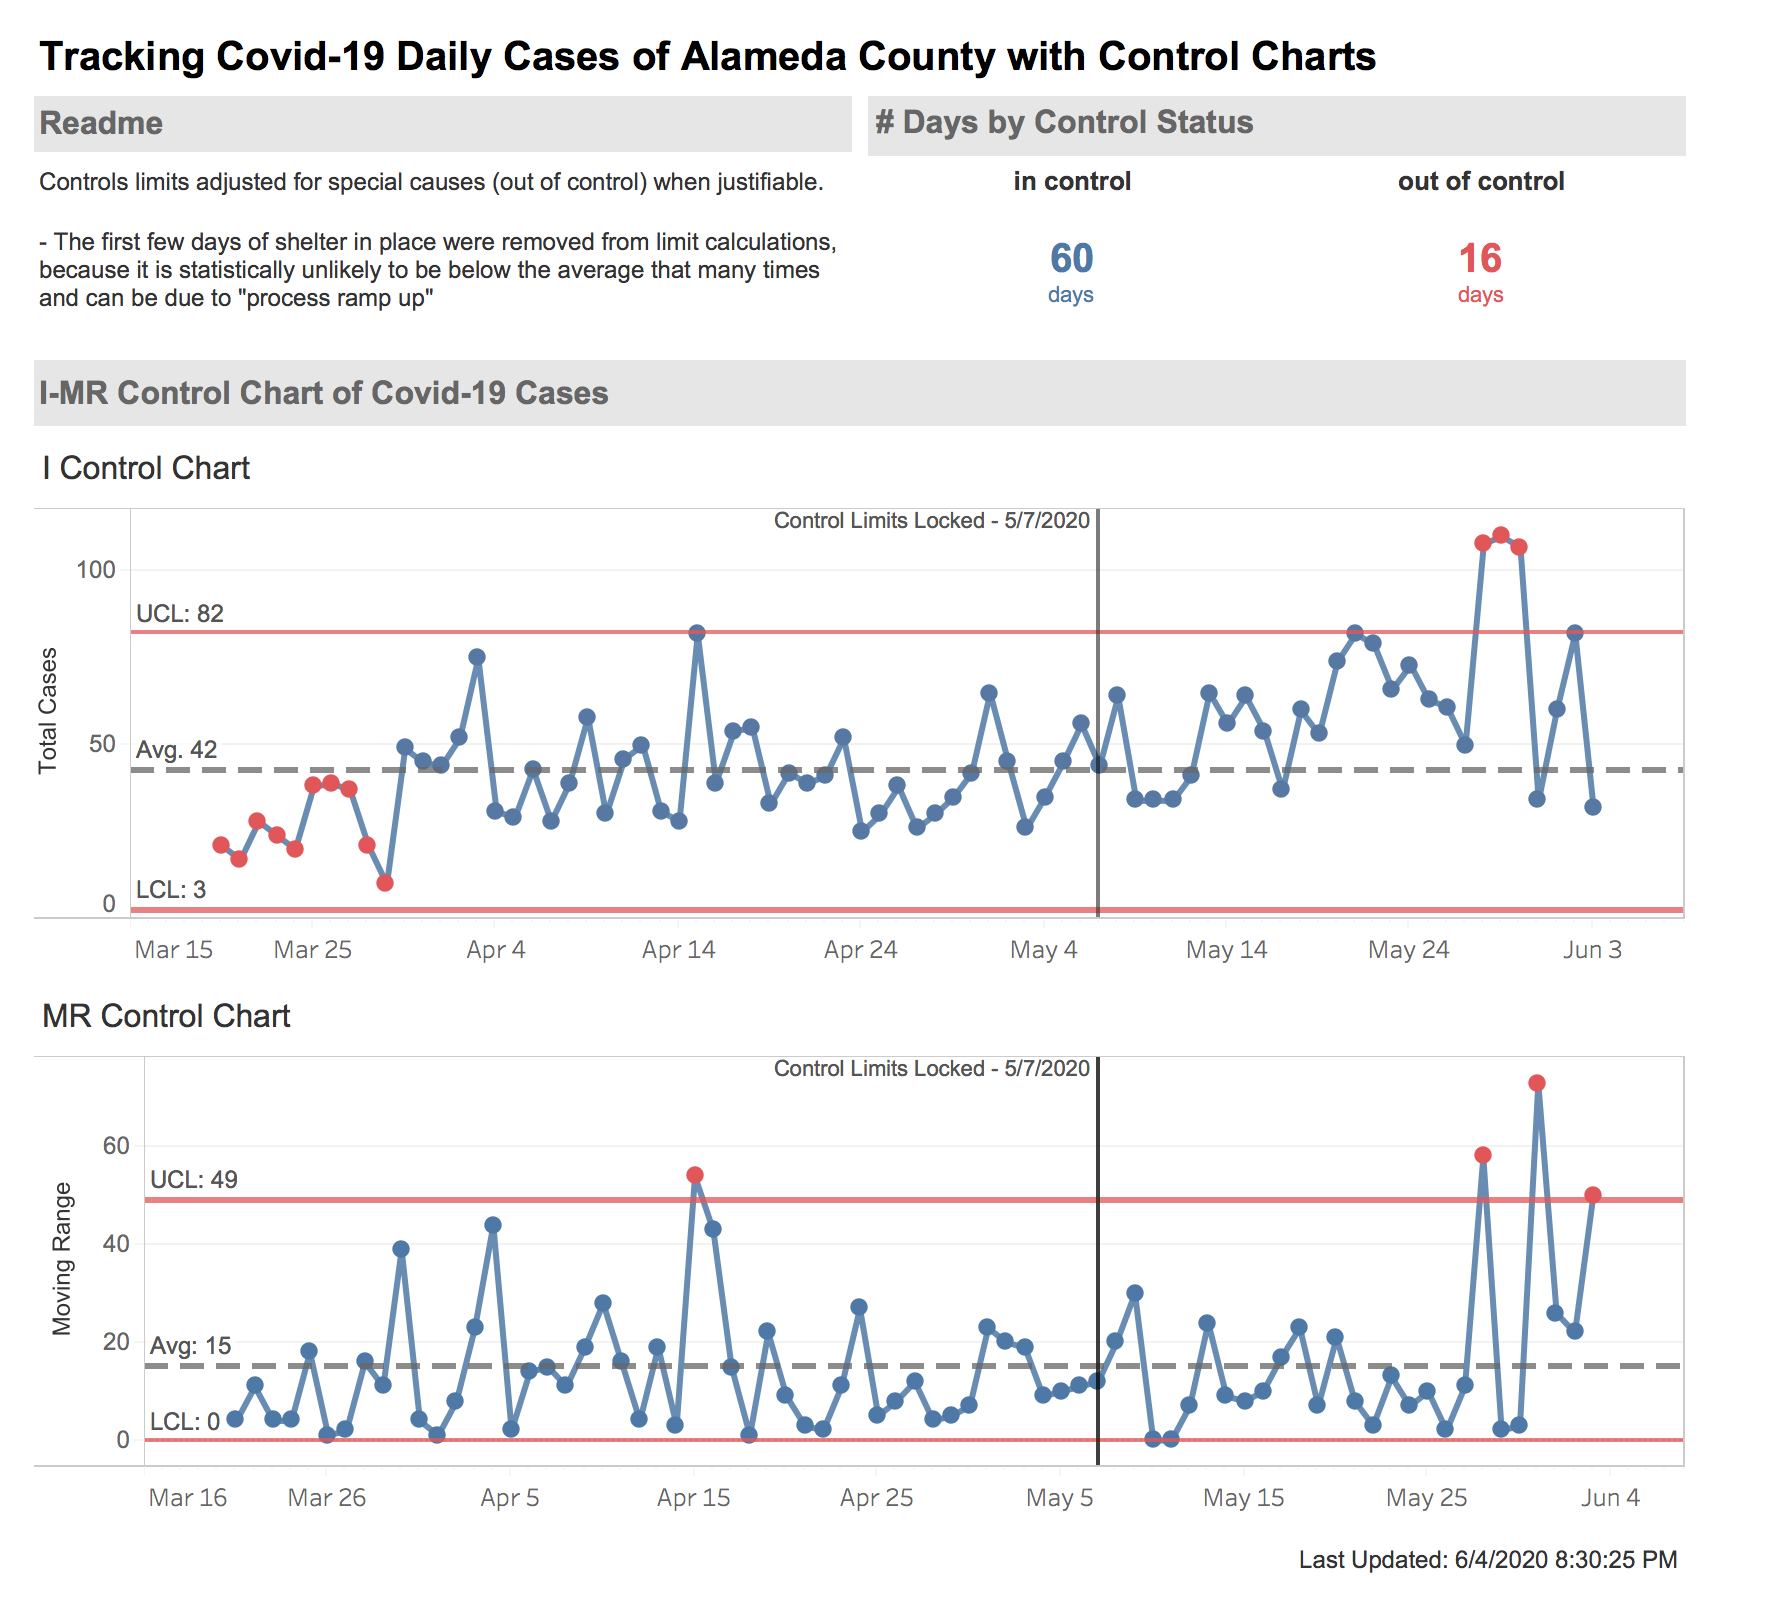
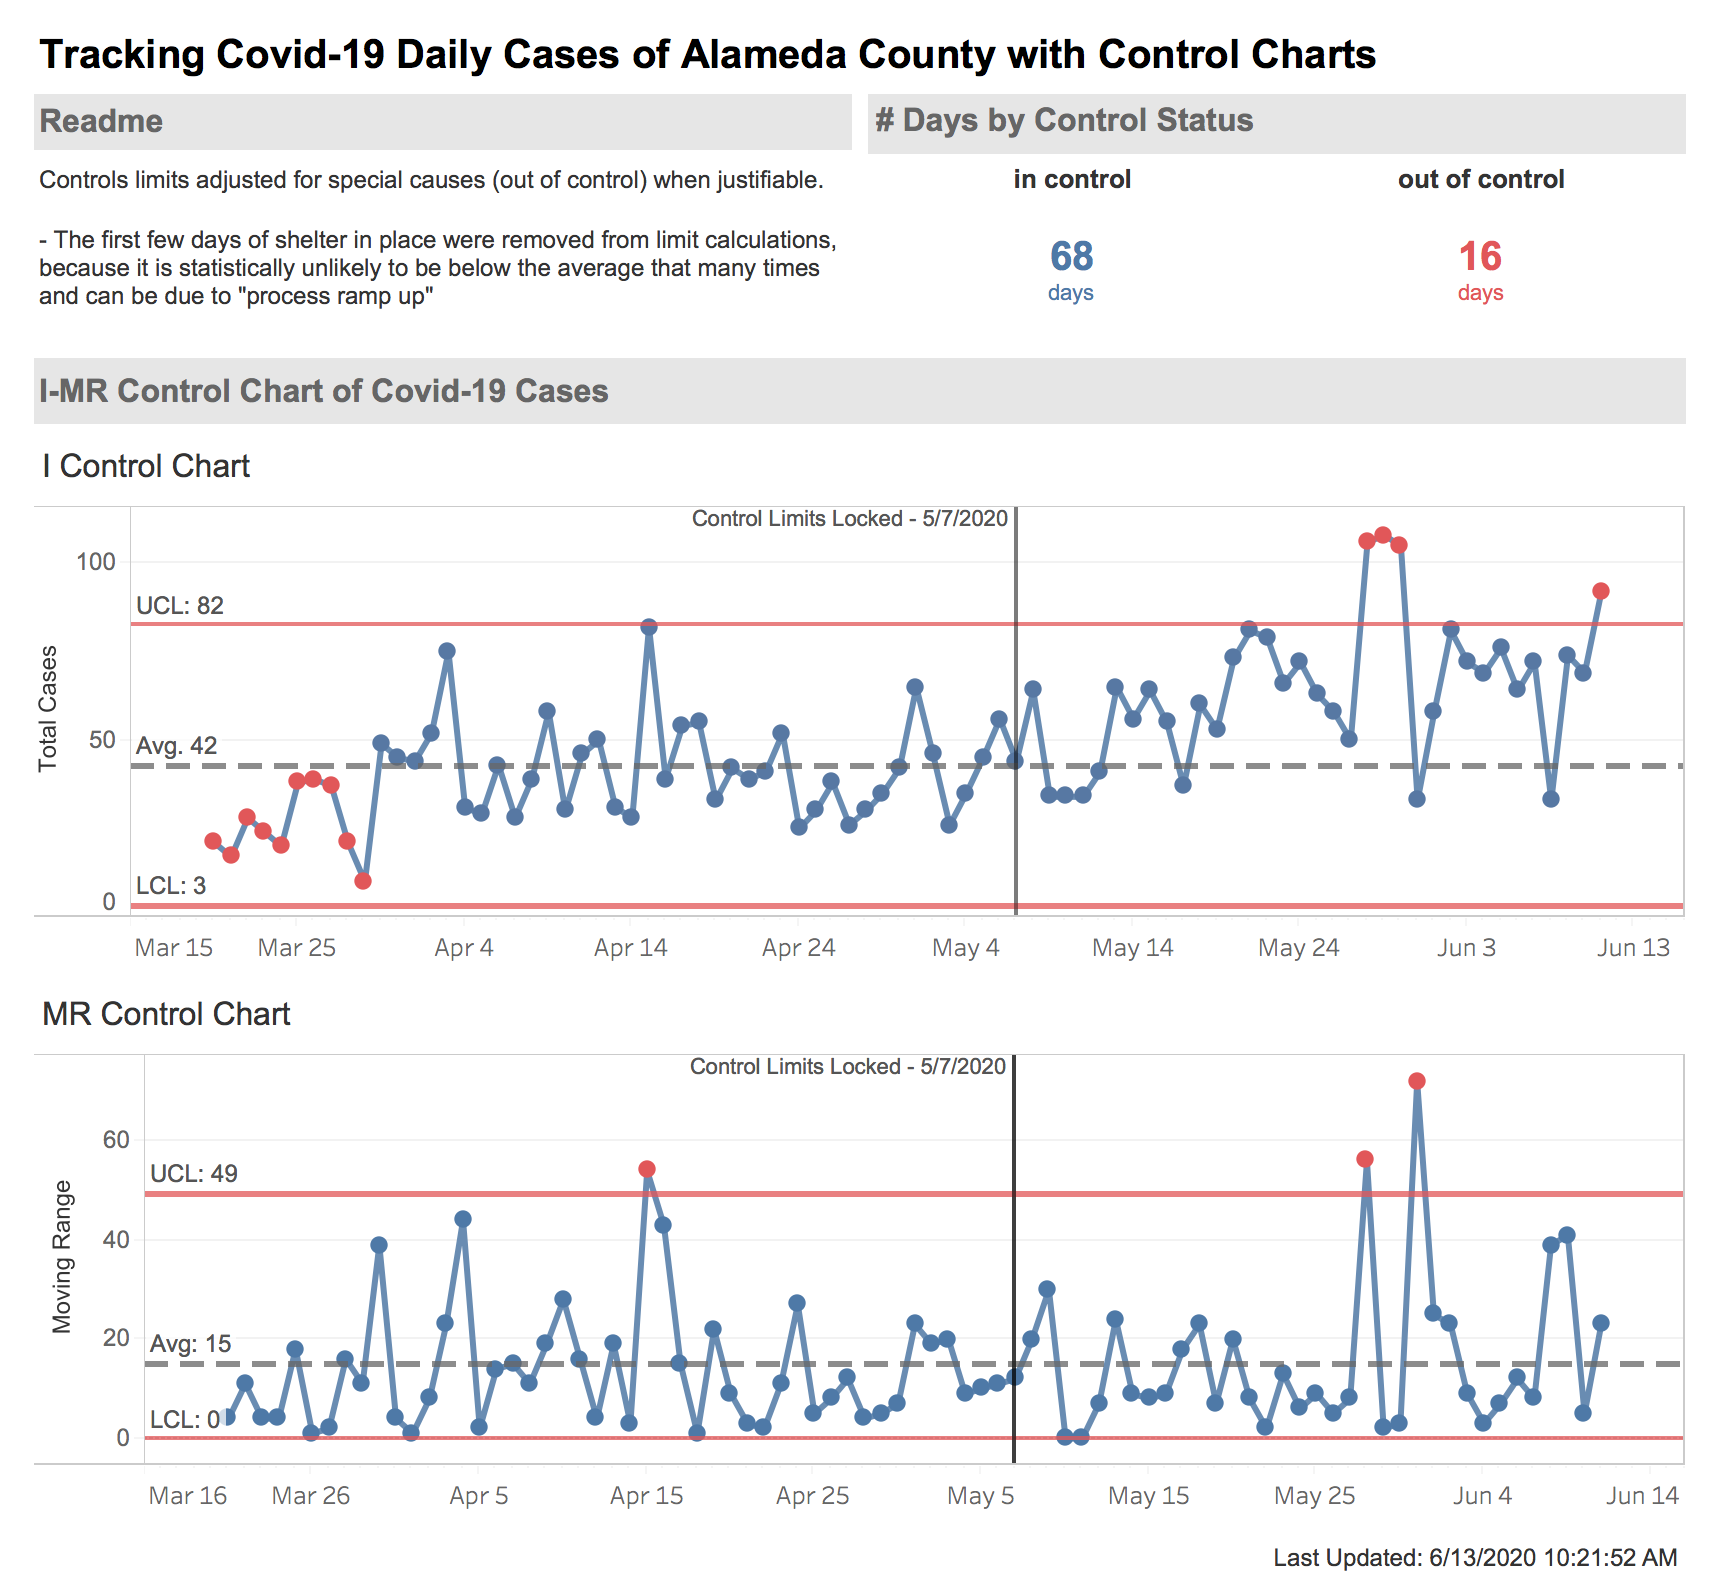
update

diff --git a/README.md b/README.md
@@ -1,13 +1,18 @@
 ## Tracking  # of COVID-19 cases in Alameda County California using Statistical Process Control
 [Link to Tableau Dashboard](https://public.tableau.com/profile/brenton.hsu5940#!/vizhome/AlamedaCountyControlChartCovid-19Cases/Overview?publish=yes)
 
-## 2020-06-04 Status Update
-All the dates after May 18 are showing concerning patterns and spikes in the # of COVID-19 cases each. Specifically, between May 18 and May 30, there were 13 straight days with COVID-19 cases being above the average of 42 cases a day. This is a strong pattern and likely suggests that the expected # of COVID-19 cases each day are increasing. Also, their are 5 straight days with very abnormal spikes in # of COVID-19 cases. May 29 to May 30 has 3 days in a row with the # of cases being above 107, when we should only be expecting a max of 82 cases a day.  Not only are their days with abnormally high # of cases, they are also high swings beings detected in # of cases. For instance, between 6/2 and 6/3 the # of cases dropped from 82 to 32, which is a drop of 50. Based on the control charts, we shouldn't expect the # of cases to swing up and down by more than 49. 
-
-Although determining the cause for the process change in # of COVID-19 cases is difficult, we can speculate that it is likely due to Alameda opening up phase II in shelter in place or the recent mass protests. Nevertheless, the most recent data and control chart provides evidence that Alameda County will see an increase in the # of COVID-19 cases they see each day in the near future.
+## 2020-06-13 Status Update
+At a glance, one can visually see that the majority of days starting in late May are falling above the expected average of 42 cases a day. Also, their is another spike in COVID-19 cases on 6/11. Given the rise in daily # of COVID-19 cases and the consistent spikes, the control chart limits needs to be recalculated to capture an accurate picture of the increase in COVID-19 cases in Alameda County.
 
 Below are the Control Charts that are used to detect significant spikes in # of COVID-19 cases in Alameda County. Any date after 5/6 are not included in calculating the control limits, since they were locked to start detecting any significant spikes in cases. Control limits (UCL, LCL) are the calculated values of the expected range of daily # of cases.
 ![](3_images/dashboard_screenshot.png)
+
+## 2020-06-04 Status Update
+All the dates after May 18 are showing concerning patterns and spikes in the # of COVID-19 cases each. Specifically, between May 18 and May 30, there were 13 straight days with COVID-19 cases being above the average of 42 cases a day. This is a strong pattern and likely suggests that the expected # of COVID-19 cases each day are increasing. Also, their are 5 straight days with very abnormal spikes in # of COVID-19 cases. May 29 to May 30 has 3 days in a row with the # of cases being above 107, when we should only be expecting a max of 82 cases a day.  Not only are their days with abnormally high # of cases, they are also high swings beings detected in # of cases. For instance, between 6/2 and 6/3 the # of cases dropped from 82 to 32, which is a drop of 50. Based on the control charts, we shouldn't expect the # of cases to swing up and down by more than 49 . 
+
+Although determining the cause for the process change in # of COVID-19 cases is difficult, we can speculate that it is likely due to Alameda opening up phase II in shelter in place, more testing, or the recent mass protests. Nevertheless, the most recent data and control chart provides evidence that Alameda County will see an increase in the # of COVID-19 cases they see each day in the near future.
+
+
 
 ## 2020-05-23 Status Update
 On May 19, Alameda County went into Phase II of reducing shelter in place restrictions. For example, retail stores can now offer curbside pickup as part of the easing restrictions. In order to monitor the impact of Phase II on # of daily cases of COVID-19 so far, the control chart is analyzed for any significant spikes in # of cases since easing restrictions.
